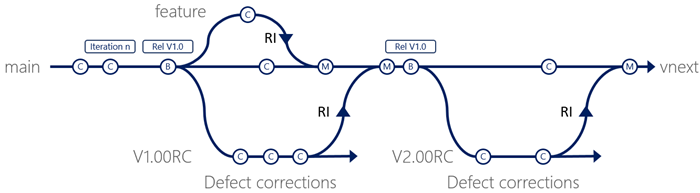
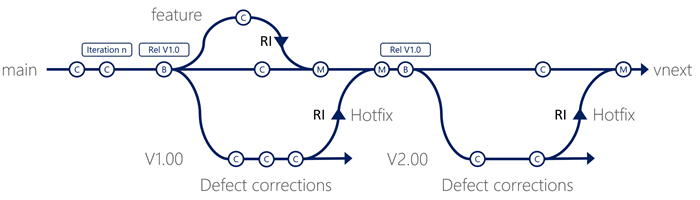
Update content based on feedbcak from Steve St. Jean.

diff --git a/src/Branching/effective-tfvc-branching-strategies-for-devops.md b/src/Branching/effective-tfvc-branching-strategies-for-devops.md
@@ -52,7 +52,13 @@ To embrace DevOps, it's important to keep your branch strategy simple and strive
 
 ## Start with a simple branching strategy
 
-Create a source control structure that identifies *shippable* release units. 
+Create a source control structure that identifies *shippable* release units. The concept of *releasable units* are a foundational piece of this strategy, which Steve St Jean describes as follows:
+- The physical unit of versioning and delivery.
+- The primary unit to support the branching and release models.
+- Can be at the Suite-, Application-, or Component-level.
+- For Suites, all applications must version and patch together. For example, Microsoft Word and Excel are part of the Microsoft Office Suite releasable unit.
+- In TFVC this would be the root node under the team project node.
+- Can be equated to
 
 You typically start with having to support only one production version, with parallel defect corrections and development of new features for future releases. Typical examples include web sites, corporate line of business applications, and interim tools.
 
@@ -81,7 +87,7 @@ Automate your build to trigger with every checkin to the release branch, run aut
 
 When the need arises to support more than one production version, for example a commercial solution such as Word, you can expand your simple branching strategy. 
 
-For every completed release cycle you need to support, create a new release branch and continue next version development in main, using [feature isolation](./effective-feature-isolation-on-tfvc).
+For every completed release cycle you need to support, create a new release branch and continue next version development in main, using [feature isolation](./effective-feature-isolation-on-tfvc). Take note of the reverse integration (RI) merges from v1.0 and v2.0 to **main**, which represent bug fixes that are released to production.
 
 ![Version 2.0 is released](_img/effective-tfvc-branching-strategies-for-devops/effective-tfvc-branching-strategies-for-devops-complex.png)
 
